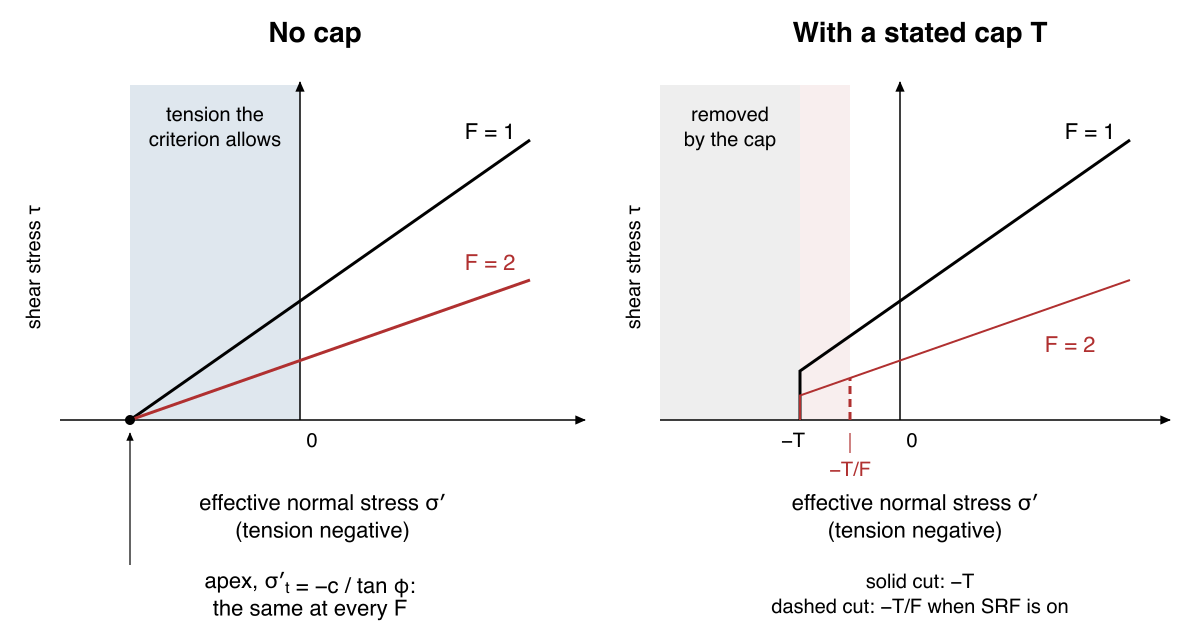
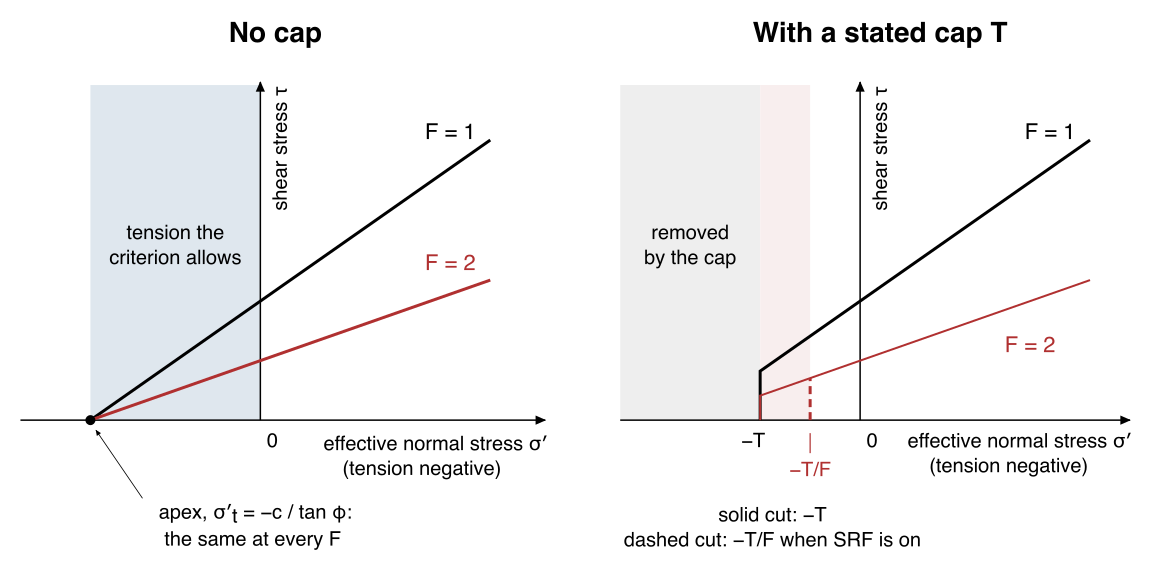
docs(fem): owner's tension schematic (hand-edited SVG, generator synced); figure widths
Claude-Session: https://claude.ai/code/session_01XjjT2aBxw8gY7EFdpoUcpj

diff --git a/docs/fem/solver.md b/docs/fem/solver.md
@@ -710,7 +710,7 @@ The pair below reloads the saved fields of the [W-3 report tutorial's reservoir 
 The upper panel is the last converged field; the lower is the captured field above FS.
 Both use the same shear-strain color range, equal aspect and identical section limits.
 
-![Last converged and captured at-failure shear strain on one shared color scale](images/fem_capture_comparison.png){width=760}
+![Last converged and captured at-failure shear strain on one shared color scale](images/fem_capture_comparison.png){width=1000}
 
 The captured field shows a developed shear band, rather than the smaller strains in the
 converged field; a color represents the same strain in both panels.
@@ -778,7 +778,7 @@ With stated tensile strength $T$, the left panel shows the original and reduced 
 The right truncates them at a stated cap: the solid cut stays at $-T$, while the dashed cut
 moves to $-T/F$ when Tension SRF is on.
 
-![Unchanged implicit tensile strength and a stated cap with Tension SRF off or on](images/fem_ov_tension_cutoff.png){width=1200}
+![Unchanged implicit tensile strength and a stated cap with Tension SRF off or on](images/fem_ov_tension_cutoff.png){width=1160}
 
 Both settings reduce the shear envelope; only Tension SRF on moves the stated positive cap
 toward zero. The shading marks tension allowed without a cap on the left, and removed by
